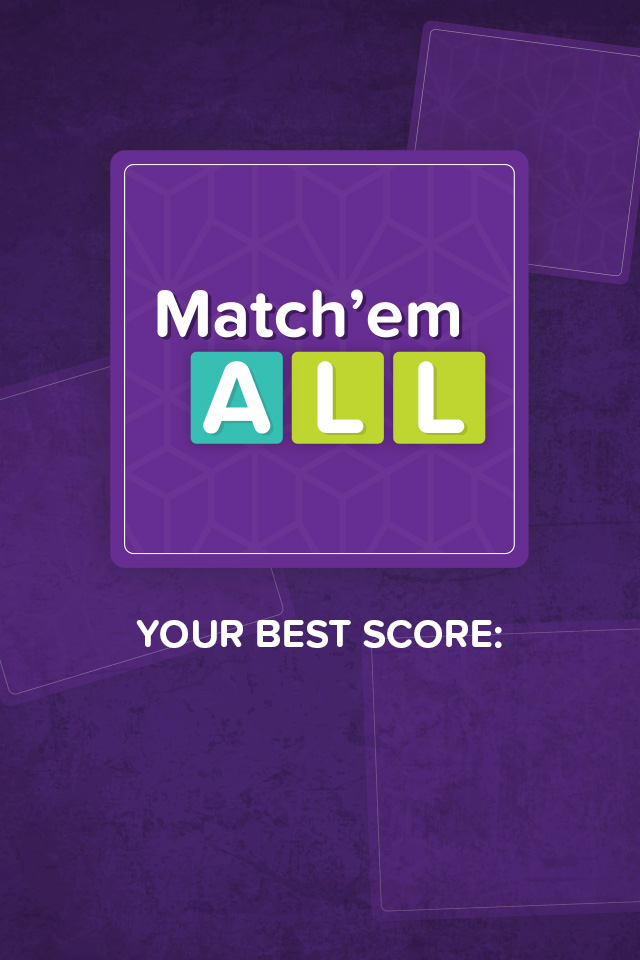
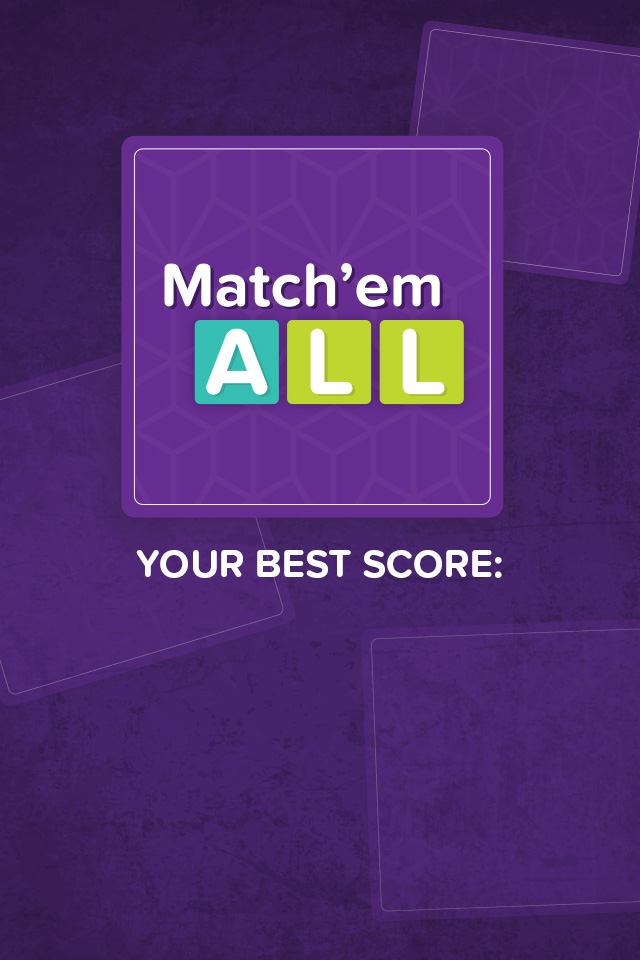
some new buttons

Changed region(s): [[0.1562, 0.125, 0.8438, 0.6875]]

diff --git a/GameEngine.Web/Assets/css/home.css b/GameEngine.Web/Assets/css/home.css
@@ -66,11 +66,14 @@ html, body {
 }
 .scoreText {
     position: absolute;
-    top: 320px;
-    left: 215px;
-    color: #EF060C;
-    font-size: 55px;
-    text-shadow: 2px 2px 4px #000;
+    top: 590px;
+    left: 0;
+    right: 0;
+    margin: auto;
+    text-align: center;
+    color: #fff;
+    font-size: 60px;
+    font-family: 'Comic Sans MS', 'Arial Rounded MT', sans-serif;
 }
 .positionText {
     position: absolute;
